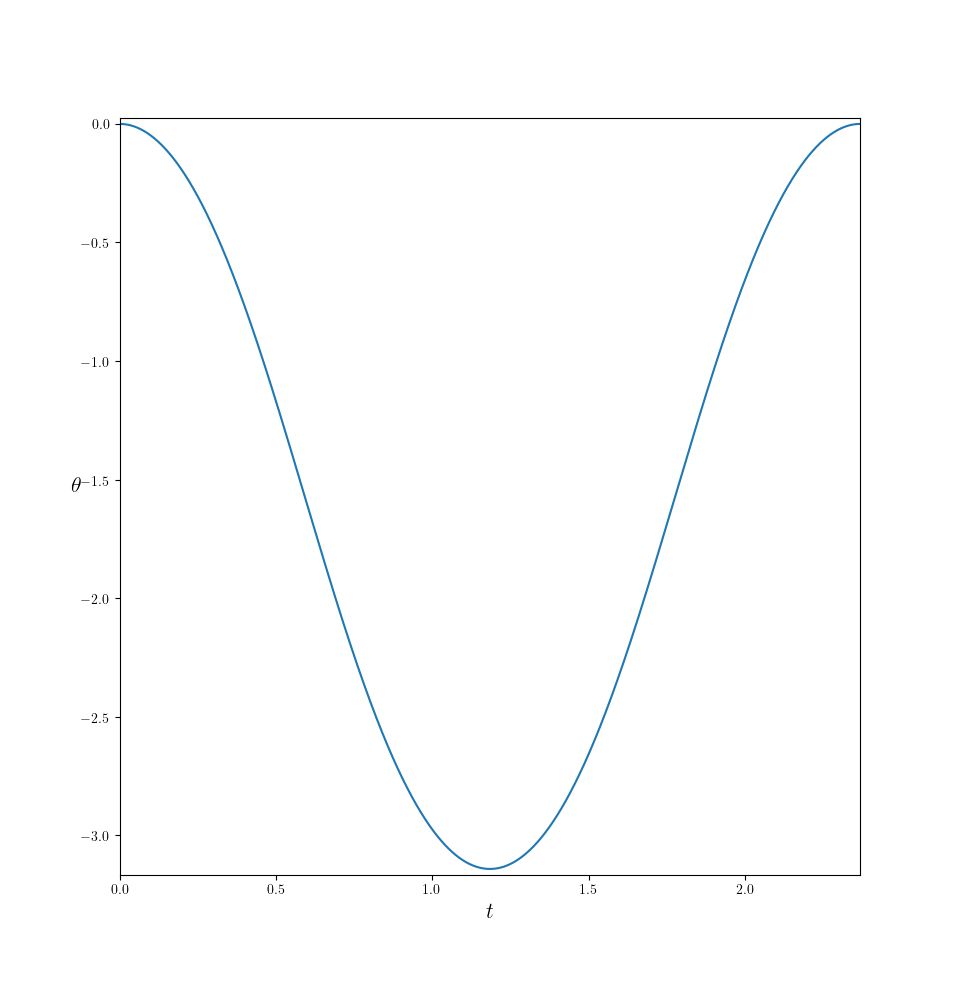
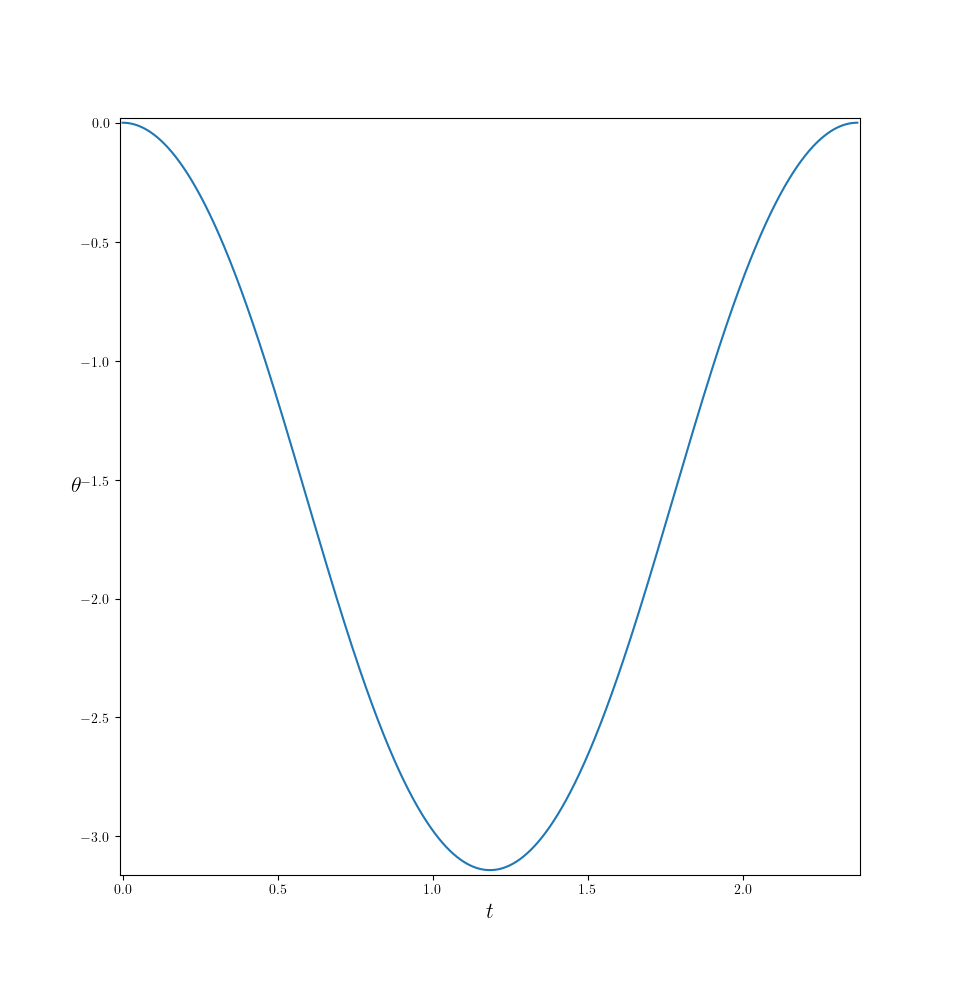
Updating pngs

diff --git a/InitialValueProblems/RK4/simpleq-2nd-RK4.py b/InitialValueProblems/RK4/simpleq-2nd-RK4.py
@@ -113,23 +113,23 @@ print("It took", round(time.time()-start, ndigits=2), "seconds for this script t
 # Plot of angle against time
 plt.figure(1)
 plt.plot(x,y)
-plt.xlim(0,2*T)
+plt.xlim(-0.01,2*T+0.01)
 plt.xlabel(r'$t$',fontsize=16)
-plt.ylim(miny-0.025,maxy+0.025)
+plt.ylim(miny-0.02,maxy+0.02)
 plt.ylabel(r'$\theta \hspace{0.2cm}$',fontsize=16,rotation=0)
 
 # Plot of theta dot against time
 plt.figure(2)
 plt.plot(x,dy)
-plt.xlim(0,2*T)
+plt.xlim(-0.01,2*T+0.01)
 plt.xlabel(r'$t$',fontsize=16)
-plt.ylim(mindy-0.05,maxdy+0.05)
+plt.ylim(mindy-0.02,maxdy+0.02)
 plt.ylabel(r'$\frac{d\theta}{dt}\hspace{0.2cm}$',fontsize=22,rotation=0)
 
 # Phase plot of theta dot against theta
 plt.figure(3)
 plt.plot(y,dy)
-plt.xlim(miny-0.025,maxy+0.025)
+plt.xlim(miny-0.02,maxy+0.02)
 plt.xlabel(r'$\theta$',fontsize=16)
-plt.ylim(mindy-0.05,maxdy+0.05)
+plt.ylim(mindy-0.02,maxdy+0.02)
 plt.ylabel(r'$\frac{d\theta}{dt}\hspace{0.2cm}$',fontsize=22,rotation=0)
